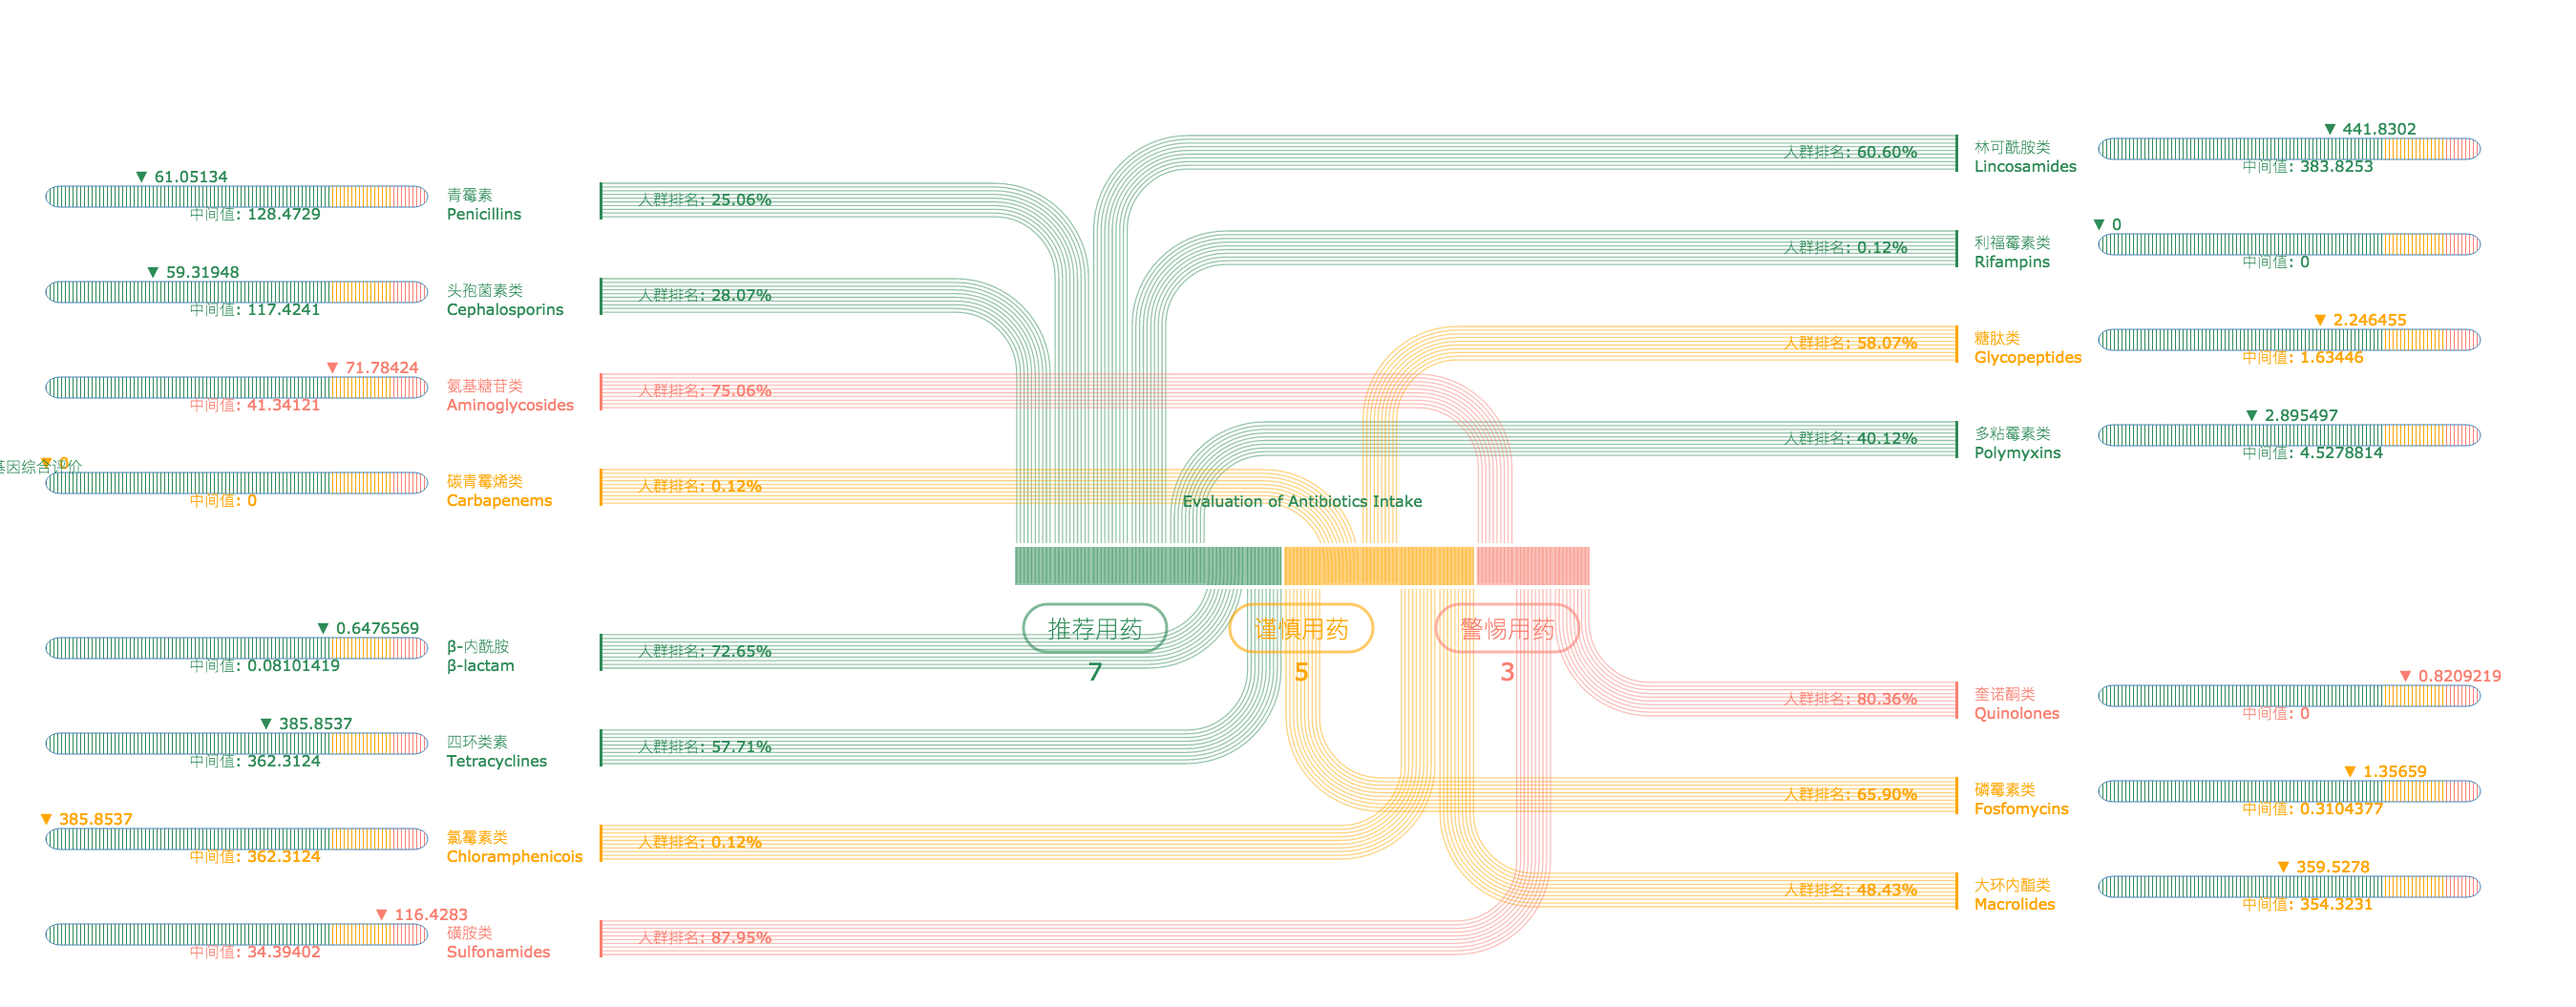
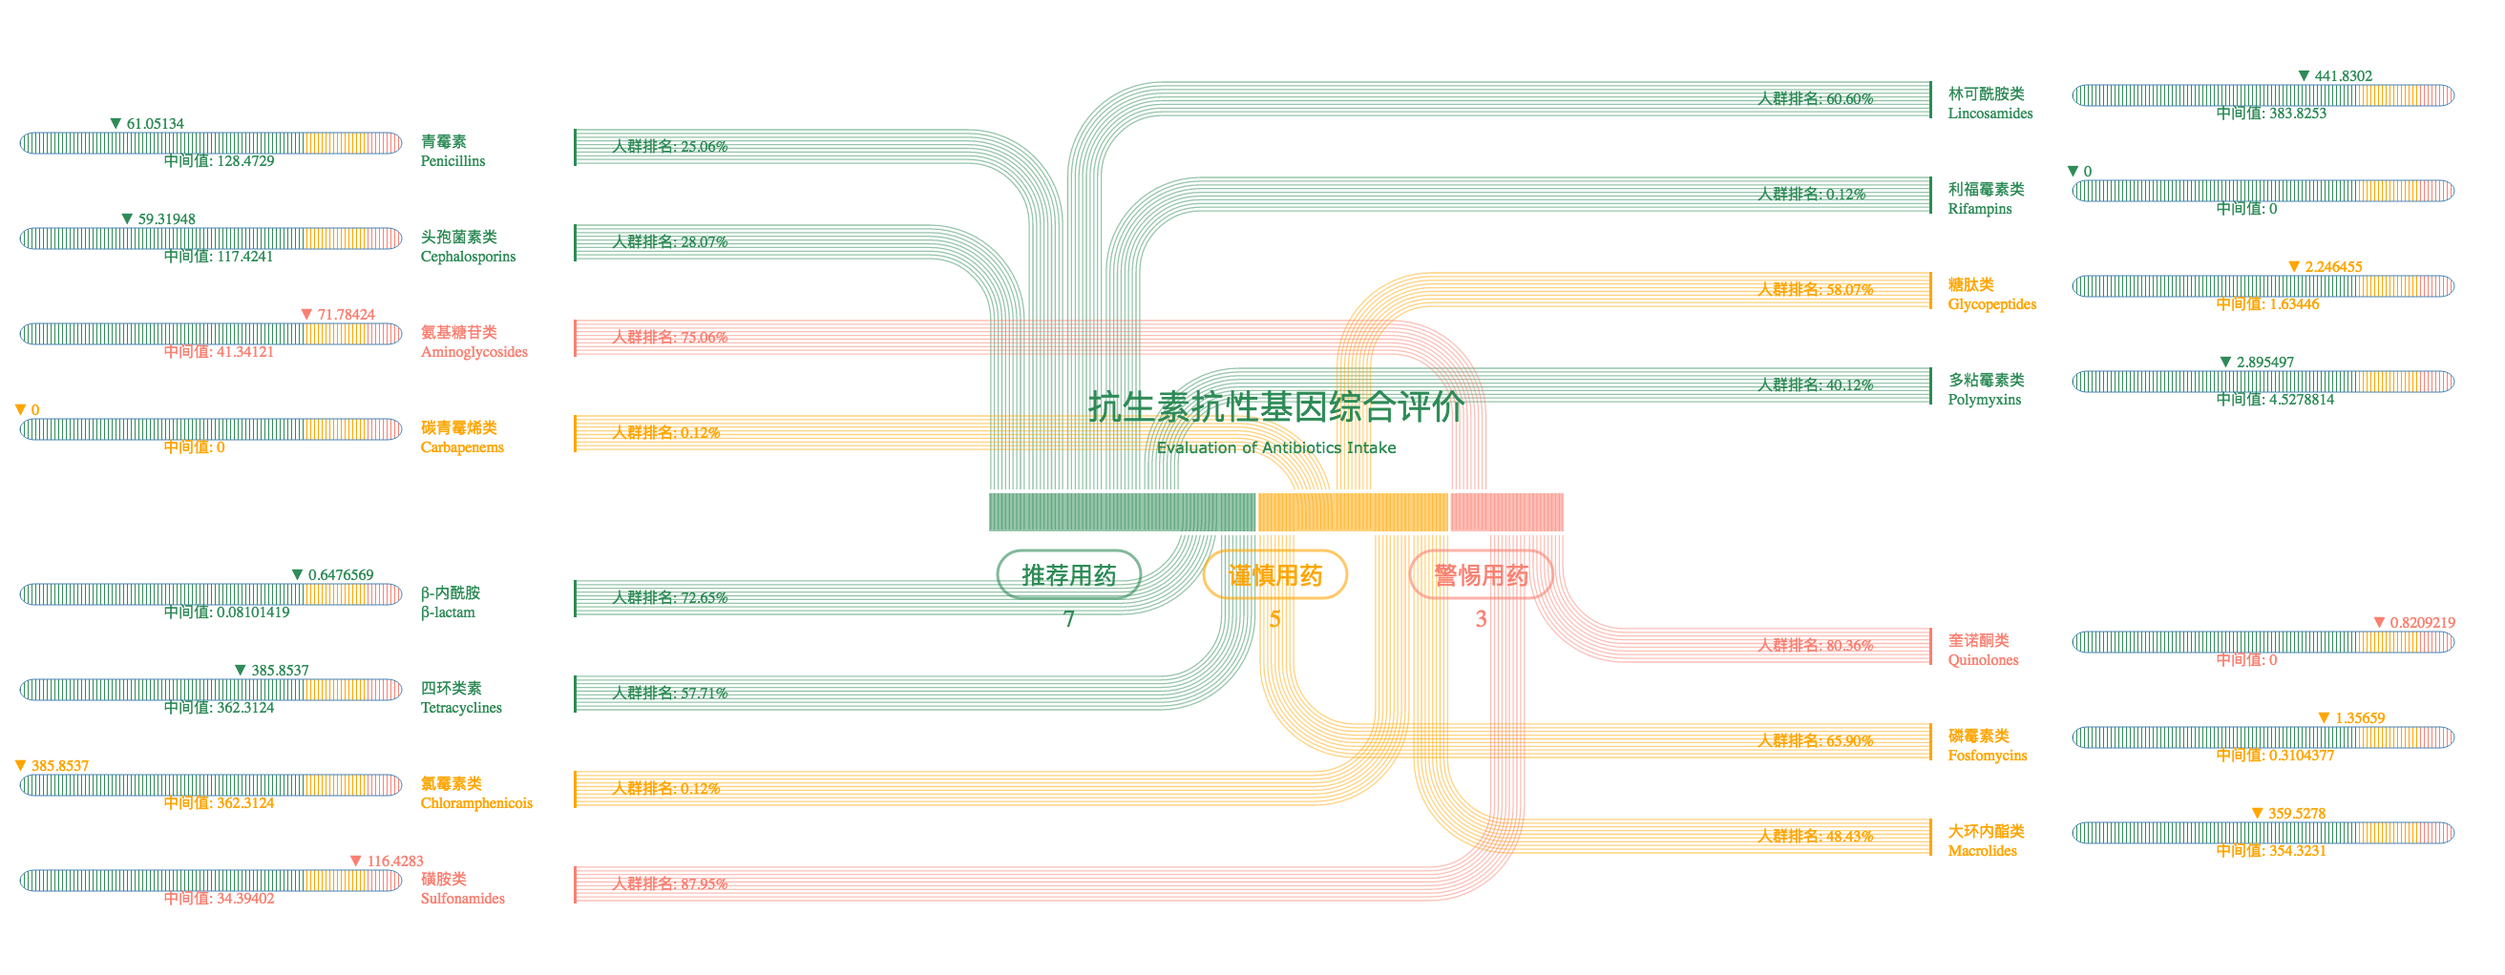
update images

Changed region(s): [[0.0, 0.0607, 1.0, 0.9706]]

diff --git a/lib/estimate-antibiotics.js b/lib/estimate-antibiotics.js
@@ -336,10 +336,11 @@ function init(parent, config) {
     // text title
     svg.append('text')
         .attr('text-anchor', 'middle')
-        .attr('x', 'calc(50.6%)')
+        .attr('x', '50.6%')
         .attr('y', '41%')
         .style('fill', 'seagreen')
-        .style('font-size', '36')
+        .attr('font-size', '36px')
+        .attr('font-weight', '400')
         .attr('font-family', 'adad')
         .text('抗生素抗性基因综合评价');
 
